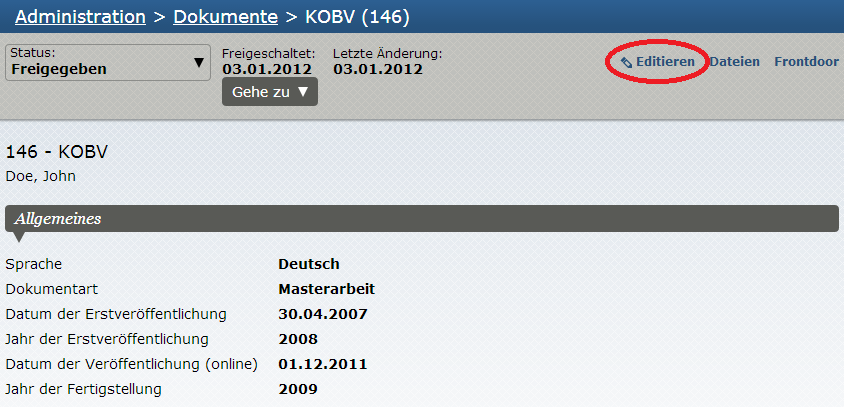
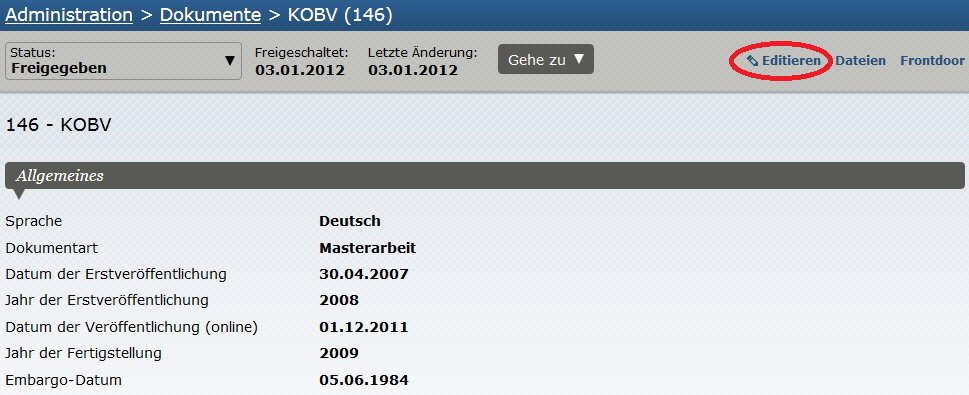
Aktualisierung Dokumentation der Datumsfelder

diff --git a/reference/fields.md b/reference/fields.md
@@ -45,13 +45,23 @@ den Labeln können die Feldbezeichnungen nicht geändert werden. Die Felder sind
 
 | Feld | Label | Beschreibung |
 |------+-----------------+--------------|
-| CompletedDate | Veröffentlichungsdatum (online) | Standarddatum in jedem Dokumenttyp, wird per default mit dem aktuellen Datum beim Einstellen des Dokuments belegt |
-| CompletedYear | Jahr der Fertigstellung | |
-| PublishedDate | Datum der Erstveröffentlichung | kommt zum Einsatz, wenn das Dokument bereits veröffentlicht wurde (z.B. in einem Verlag); bibliographisches Feld |
-| PublishedYear | Jahr der Erstveröffentlichung | kommt zum Einsatz, wenn das Dokument bereits veröffentlicht wurde (z.B. in einem Verlag); bibliographisches Feld |
-| ThesisDateAccepted | Datum der Annahme der Abschlussarbeit | Datum, an dem die Abschlussarbeit im Sinne der Prüfungsordnung angenommen wurde; i.d.R. das Datum der mündlichen Prüfung |
-| ThesisYearAccepted | Jahr der Annahme der Abschlussarbeit | Jahr, in dem die Abschlussarbeit im Sinne der Prüfungsordnung angenommen wurde; i.d.R. das Jahr der mündlichen Prüfung |
-| EmbargoDate| Embargo Datum | Datum an dem das Embargo des Dokuments (Volltext) durch den Verlag endet |
+| CompletedDate | Datum der Veröffentlichung (online) | Standarddatum in jedem Dokumenttyp, wird per default mit dem aktuellen Datum beim Einstellen des Dokuments belegt; Datum, ab wann wann das Dokument frühestens im Repository freigeschaltet werden darf |
+| CompletedYear | Jahr der Fertigstellung | Datumsfeld für die Angabe zum Erstellungsjahr oder Erscheinungsjahr; ursprünglich aus OPUS3 als Jahresangabe zum Erscheinungsjahr |
+| PublishedDate | Datum der Erstveröffentlichung | Datum, an dem die Publikation bereits veröffentlicht wurde (z.B. in einem Verlag) oder die Publikation als Erstveröffentlichung im Repository erscheint |
+| PublishedYear | Jahr der Erstveröffentlichung | Jahr, in dem die Publikation bereits veröffentlicht wurde (z.B. in einem Verlag) oder die Publikation als Erstveröffentlichung im Repository erscheint |
+| EmbargoDate| Embargo-Datum | Datum, an dem das Embargo der Publikation (Volltext) durch den Verlag endet und der Zugriff auf den Volltext in dem Repository frühestens möglich ist |
+| ThesisDateAccepted | Datum der Abschlussprüfung | Datum, an dem die Abschlussarbeit im Sinne der Prüfungsordnung angenommen wurde (i.d.R. das Datum der mündlichen Prüfung) |
+| ThesisYearAccepted | Jahr der Abschlussprüfung | Jahr, in dem die Abschlussarbeit im Sinne der Prüfungsordnung angenommen wurde (i.d.R. das Jahr der mündlichen Prüfung) |
+
+Die Jahresangabe im Feld "Datum der Erstveröffentlichung" (PublishedDate) wird in der Standardumgebung von OPUS 4 für die Generierung der Facette "Erscheinungsjahr", 
+für die "Jahresangabe" bei der erweiteren Suche sowie für die "Sortierreihenfolge nach Jahr" in der einfachen Suche herangezogen. Wenn dieses Datumsfeld nicht gefüllt 
+ist, wird das Feld "Jahr der Erstveröffentlichung" (PublishedYear) verwendet. Alternativ dazu besteht die Möglichkeit, die Indexierung der Jahresfacette individuell 
+zu konfigurieren und dafür z.B. das Datumsfeld "Jahr der Fertigstellung"  (CompletedDate) zu verwenden. Eines dieser Datumsfelder sollte demnach in allen Dokumenten 
+gesetzt sein.
+
+Für die Ablieferung von Abschlussarbeiten erwartet die DNB eine Angabe, an dem die Abschlussarbeit im Sinne der Prüfungsordnung angenommen wurde. Vorzugsweise wird hier 
+das Datum im Feld "Datum der Abschlussprüfung" (ThesisDateAccepted) verwendet. Ist dieses nicht bekannt, wird auch das Jahr im Feld "Jahr der Abschlussprüfung" 
+(ThesisYearAccepted) akzeptiert.
 
 ## Identifier
 

diff --git a/admin/metadataform.md b/admin/metadataform.md
@@ -62,15 +62,14 @@ eingesehen werden. Da es all diese Felder jeweils nur einmal geben kann, entfäl
 hinzufügen".
 
 "Sprache" und "Dokumentart" sind Pflichtfelder und werden hier immer aufgeführt. Sie können über
-die Dropdownmenüs geändert werden. Falls "Datum der Erstveröffentlichung", "Jahr der
-Erstveröffentlichung", "Datum der Veröffentlichung (online)" oder "Jahr der Fertigstellung" nicht belegt
-sein sollten, werden sie in der Übersicht auch nicht angezeigt. Durch Klick auf die Eingabefelder
-lassen sie sich auch nachträglich befüllen.
+die Dropdownmenüs geändert werden. Wenn "Datum der Erstveröffentlichung", "Jahr der
+Erstveröffentlichung", "Datum der Veröffentlichung (online)", "Jahr der Fertigstellung" oder "Embargo-Datum" nicht belegt
+sind, werden sie in der Übersicht nicht angezeigt. Durch Klick auf die Eingabefelder lassen sie sich nachträglich befüllen.
 
 ![Image](../img/admin/SC_Admin_Dokumente_Metadatenformular_Allgemeines_Bearbeitungsmodus.png){:width="640px"}
 
 <p class="note">
-Die Felder "Datum der Freischaltung" und "Datum der letzten Änderung (Server)" - angeordnet in
+Die Felder "Freigeschaltet" (ServerDatePublished) und "Letzte Änderung" (ServerDateModified) - angeordnet in
 der Übersicht des Metadatenformulars - sind interne Felder und können nicht verändert werden.
 </p>
 

diff --git a/configext/searchengine2.md b/configext/searchengine2.md
@@ -1,0 +1,27 @@
+---
+title: Solr-Anpassung für Facette Jahr
+--- 
+
+# Solr-Anpassung für Facette Jahr
+
+Für einige Änderungen im Verhalten von OPUS 4 müssen Anpassungen in der
+Datei `$BASEDIR/application/configs/solr/solr.xslt` vorgenommen werden, die Teil der Solr-Konfiguration 
+für den Suchindex einer Instanz ist.
+
+## Datumsfelder für die Facette Erscheinungsjahr
+
+Für die Facette "Erscheinungsjahr" (year) wird die Jahresangabe im Feld "Datum der Erstveröffentlichung" (PublishedDate) verwendet. 
+Wenn dieses nicht vorhanden ist, kommt das Feld "Jahr der Erstveröffentlichung" (PublishedYear) zum Einsatz. Alternativ dazu besteht die 
+Möglichkeit, die Indexierung der Jahresfacette individuell zu konfigurieren und dafür z.B. das Datumsfeld "Jahr der Fertigstellung" 
+(CompletedDate) zu verwenden.
+
+{% highlight xml %}
+<!-- year -->
+<xsl:variable name="year">
+    <xsl:attribute name="name">year</xsl:attribute>
+    <xsl:value-of select="/Opus/Opus_Document/@CompletedYear" />
+</xsl:variable>
+{% endhighlight %}
+                
+
+

diff --git a/configext/searchengine.md b/configext/searchengine.md
@@ -1,5 +1,5 @@
 ---
-title: Solr Schema
+title: Solr-Schema
 --- 
 
 # Solr-Schema
